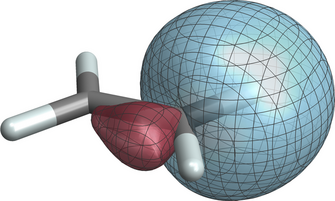
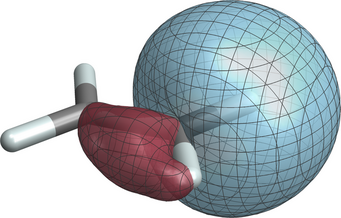
Updated widget screenshot. Updated README. Added functionality for color scheme choice and updated custom molecule importer so it works with Mathematica 12.1 as well as newer versions.

diff --git a/cubefile-plot-molecular-orbitals/README.md b/cubefile-plot-molecular-orbitals/README.md
@@ -1,33 +1,66 @@
 # Plotting molecular orbitals from cube file data
 
-![Isosurface of a localized molecular orbital representing one of the C-H bonds in the ethene molecule](example.png)
+![Isosurface of a localized molecular orbital representing one of the
+ C-H bonds in the ethene molecule](example.png)
 
-File orbitalplot-interactive.nb is a Mathematica notebook for plotting +/- isosurfaces of 
-of a set of molecular orbitals. The image above shows +/-0.04 atomic units isosurfaces of a localized molecular orbital representing one of the C-H bonds in the ethene molecule, generated with the notebook.
+File orbitalplot-interactive.nb is a Mathematica notebook for plotting
++/- isosurfaces of a set of molecular orbitals. The image above shows
++/-0.04 atomic units isosurfaces of a localized molecular orbital
+representing one of the C-H bonds in the ethene molecule generated
+with the notebook.
 
-Mathematica Versions 12.x, 13.0, 13.3, and 14.0 are confirmed to work. 
-Newer versions likely will work, too. Version 12.1, to which I have access,
-gives some warnings and does not display the color buttons in the
-interactive panel correctly. There is a variant (with `mma12` in the file name)
-of the notebook that should work better with older Mathematica versions. 
+Mathematica Versions 12.x, 13.0, 13.3 and Wolfram 14.x are confirmed
+to work.  Newer Matematica/Wolfram versions likely will work,
+too. There is a variant with `mma12` in the file name that should work
+smoothly with 12.x but `orbitalplot-interactive.nb` should run fine
+with 12.x, too.
 
-The notebook was used to generate the molecular orbital visualizations in my textbook *Quantum Theory for Chemical Applications* (https://global.oup.com/academic/product/quantum-theory-for-chemical-applications-9780190920807). The ethene orbital example is one of the isosurface plots shown in Figure 10.12 in the book. See also this article: https://doi.org/10.1021/ed200673w 
+An earlier version of the notebook was used to generate the molecular
+orbital visualizations in my textbook *Quantum Theory for Chemical
+Applications*
+(https://global.oup.com/academic/product/quantum-theory-for-chemical-applications-9780190920807). The
+ethene orbital example is one of the isosurface plots shown in Figure
+10.12 in the book. See also this article:
+https://doi.org/10.1021/ed200673w
 
-Numerical data for the orbitals must be provided in the form of data files in the commonly used 'cube' format (volume data + molecular frame).
+Numerical data for the orbitals must be provided in the form of data
+files in the commonly used 'cube' format (volume data + molecular
+frame).
 
 ![Screen shot of the interactive plotting panel in the notebook](screenshot.png)
 
 
-We noticed that the grid specifications in the CUBE files must
-be Cartesian, in the order x, y, z, and with positive steps; otherwise,
-the Mathematica versions that we tested gave errors or generated an incorrect plot. For Cartesian
-grids with negative steps or grid vectors that are not ordered as x, y, z, 
-you can use `manipulatecube <cubefile> fix` with the manipulatecube code
-from https://github.com/jautschbach/manipulatecube
+The grid specifications in the CUBE files must be Cartesian, in the
+order x, y, z, and with positive steps; otherwise, the
+Mathematica/Wolfram versions that we tested gave errors or generated
+an incorrect plot. For Cartesian grids with negative steps or grid
+vectors that are not ordered as x, y, z, you can use `manipulatecube
+<cubefile> fix` with the manipulatecube code from
+https://github.com/jautschbach/manipulatecube
  
-The screenshot above shows the main interactive plotting panel of the notebook. The user can select different styles for plotting the molecular frame, select the isosurface values, rotate and scale the plot as desired, and there is a convenient button for saving the plot in its current orientation in PNG format. If the notebook's directory contains multiple cube files (they must all be for the same molecule, using the same grid for the volume data), it can be selected from a drop-down menu in the plot panel, preserving the viewpoint and other settings. This is very convenient when one wants to draw many different orbitals isosurfaces for the same molecule. 
+The screenshot above shows the main interactive widget of the
+notebook. The user can select different styles for plotting the
+molecular frame, select the isosurface values, rotate and scale the
+plot as desired, and there is a convenient button for saving the plot
+in its current orientation in PNG format. If the notebook's directory
+contains multiple cube files (they must all be for the same molecule,
+using the same grid for the volume data), it can be selected from a
+drop-down menu in the plot panel, preserving the viewpoint and other
+settings. This is very convenient when one wants to draw many
+different orbitals isosurfaces for the same molecule.
 
-There is additional code to save the current viewpoint, or to import it from a file saved during another interactive session. An accompanying notebook, multiple-cube-exports.nb, is also provided. You can use that notebook to generate images for a large set of cube files in one go. 
+There is additional code to save the current viewpoint, or to import
+it from a file saved during another interactive session. An
+accompanying notebook, `multiple-cube-exports.nb`, is also provided. You
+can use said notebook to generate images for a large set of cube files
+in one go.
 
-It happens occasionally (esp. for metal complexes, in my experience) that Mathematica generates too many or too few bond 'sticks' in the molecule drawing. In this case, please consult the instructions in `orbitalplot-interactive.nb` as well as the accessory notebook `import-molecule-modify.nb` (also provided in this repository) how to create a MOL format file with the desired bond connectivities and use this instead in the interactive plot program.
+It happens occasionally (esp. for metal complexes, in my experience)
+that Mathematica generates too many or too few bond 'sticks' in the
+molecule drawing. In this case, please consult the instructions in
+`orbitalplot-interactive.nb` as well as the accessory notebook
+`import-molecule-modify.nb` (also provided in this repository) how to
+create a MOL format file `molecule.mol` with the desired atom
+connectivities and use the MOL file in the interactive plot program by
+clicking the appropriate option.
 
